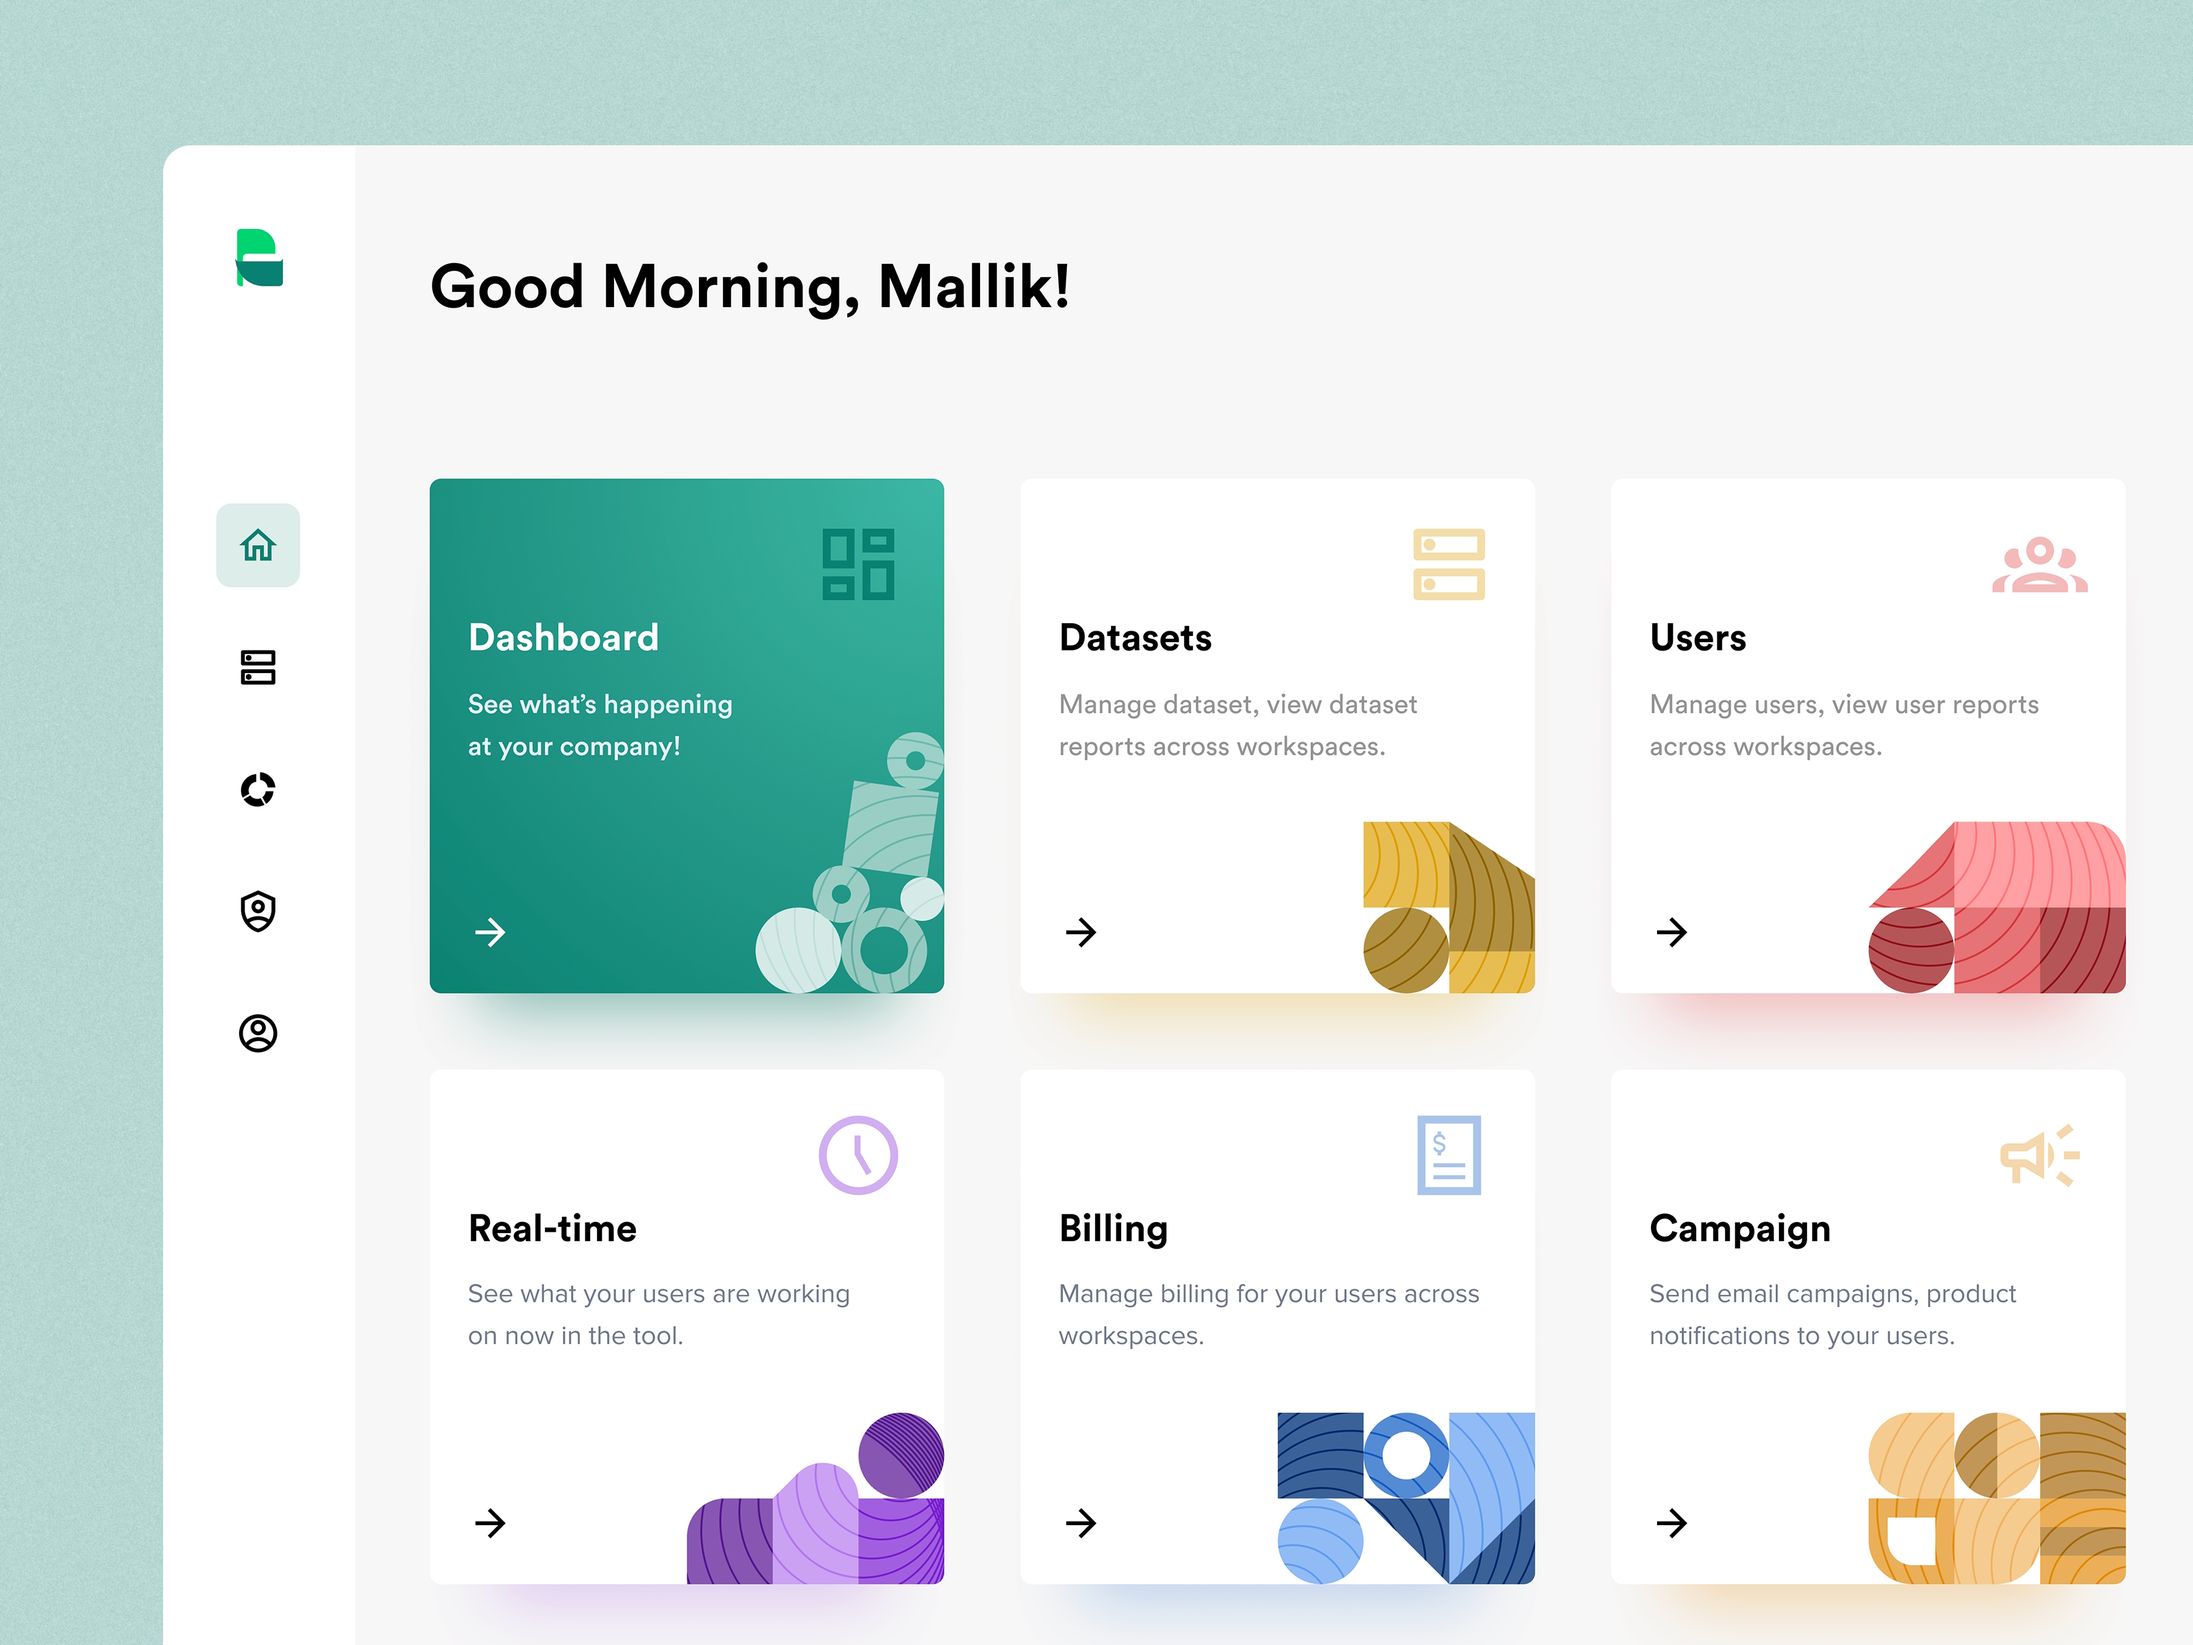
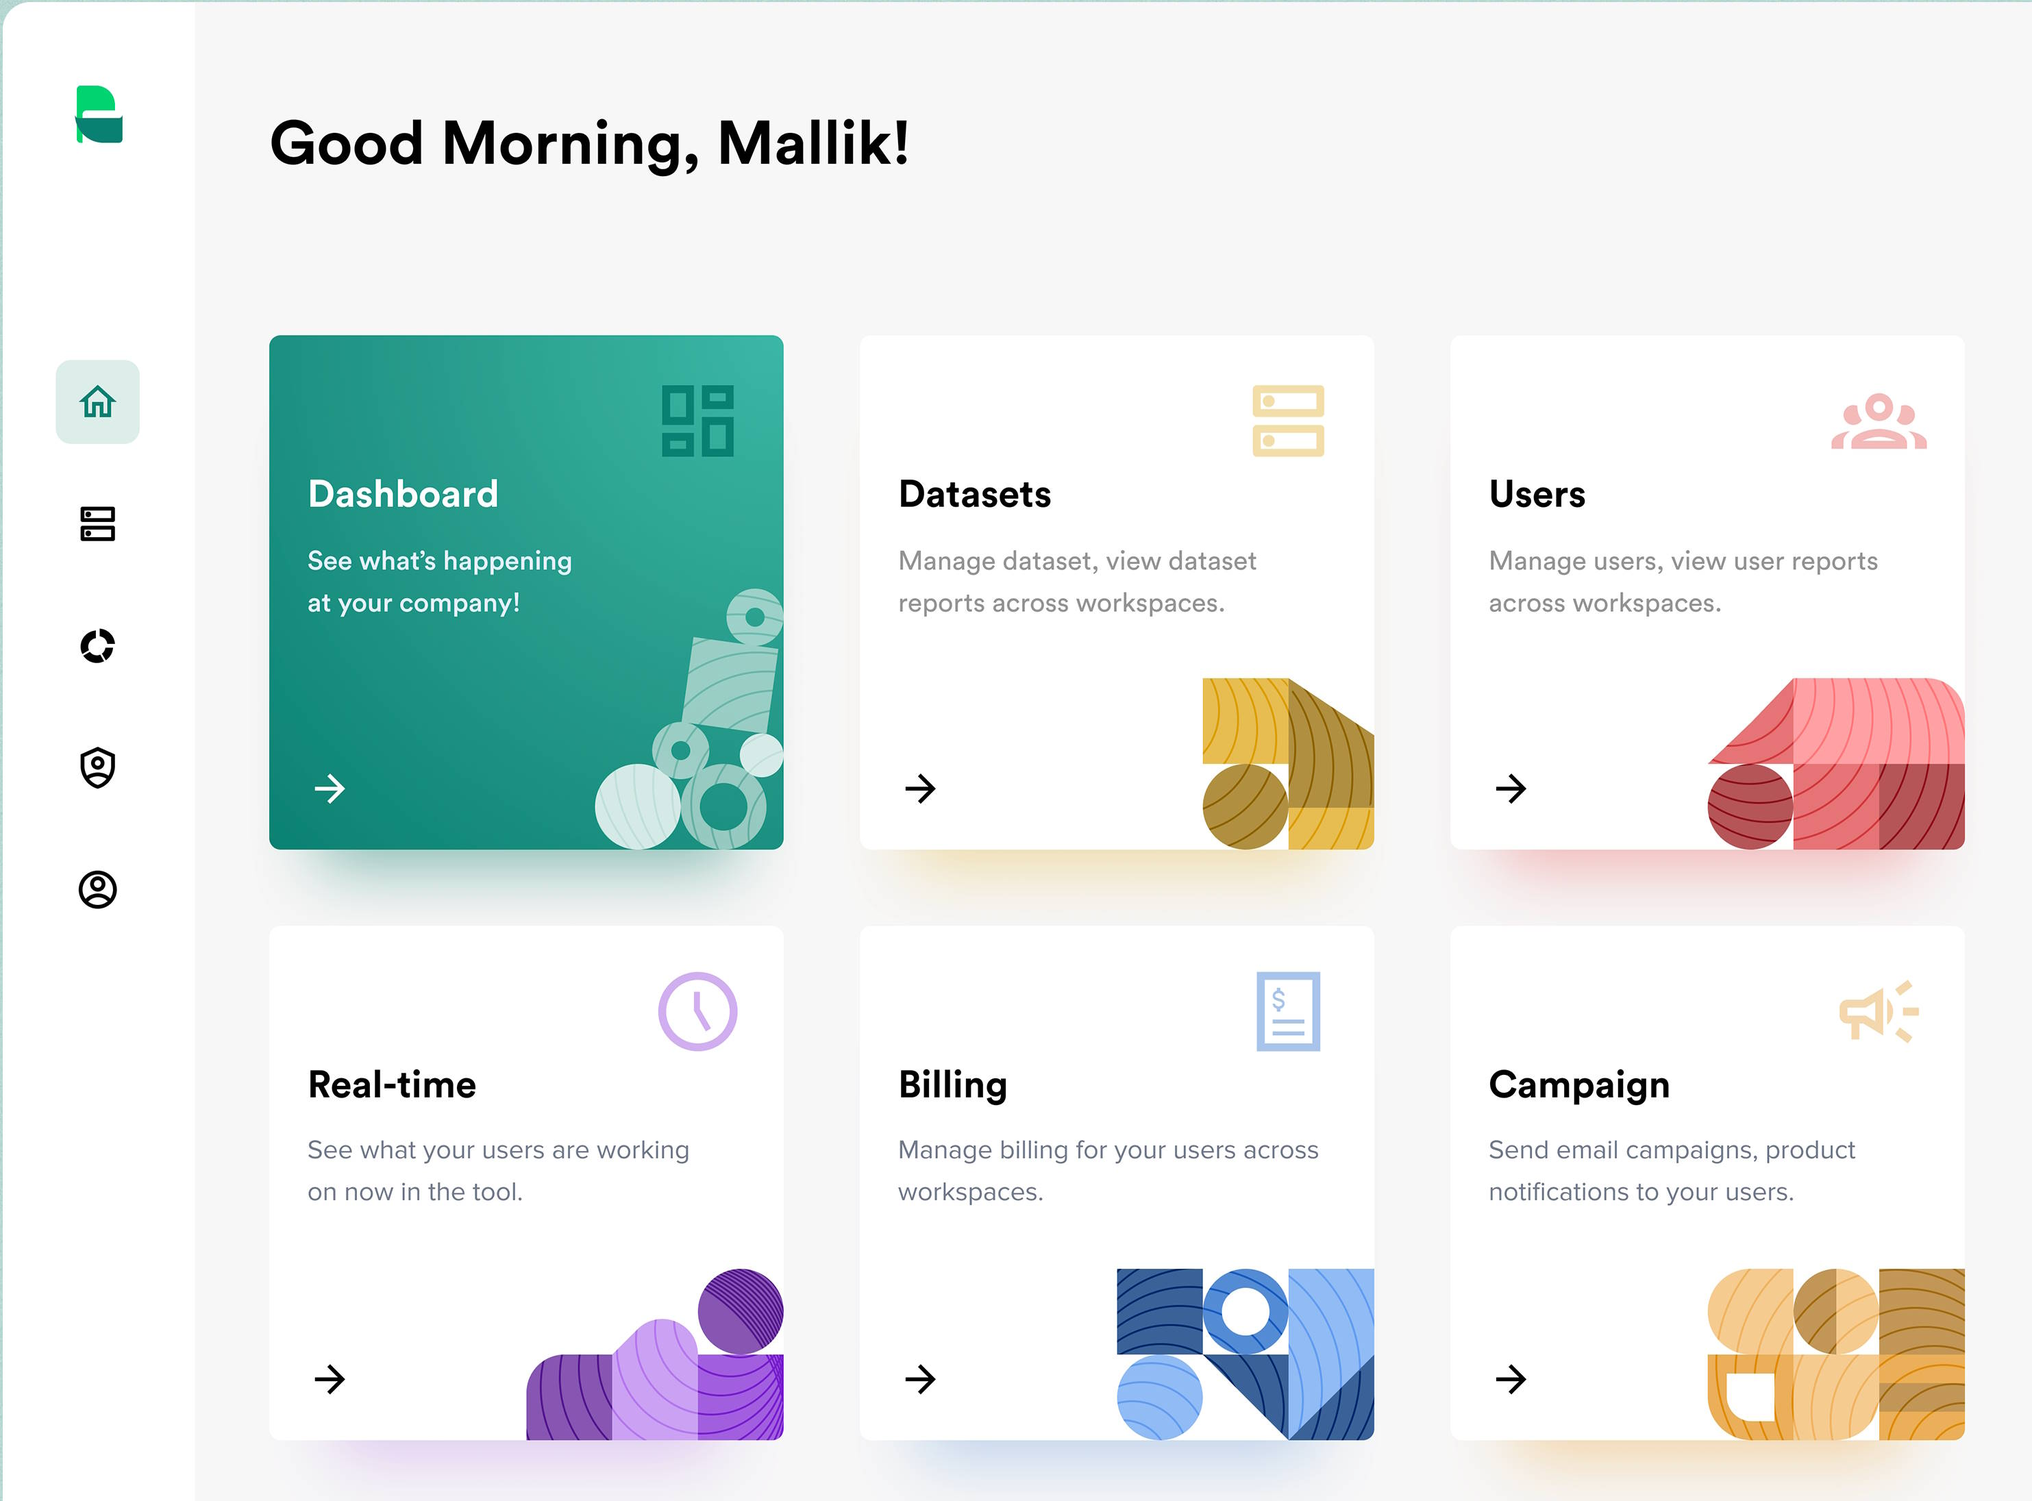
arrows

diff --git a/index.html b/index.html
@@ -14,11 +14,11 @@
       <img class="logo" src="./img/logo.png" alt="Logo" />
       <nav class="main-nav">
         <div class="navigation">
-          <a class="link-active" href="#"><img class="aside.icons" src="./img/home.webp" alt="Home"></a>
-          <a class="link" href="#"><img class="aside.icons" src="./img/list.jpg" alt="List"></a>
-          <a class="link" href="#"><img class="aside.icons" src="./img/circle.jpg" alt="Circle"></a>
-          <a class="link" href="#"><img class="aside.icons" src="./img/profile2.jpg" alt="Profile2"></a>
-          <a class="link" href="#"><img class="aside.icons" src="./img/profile.jpg" alt="Profile"></a>
+          <a class="link-active" href="#"><img class="aside-icons" src="./img/home.webp" alt="Home"></a>
+          <a class="link" href="#"><img class="aside-icons" src="./img/list.jpg" alt="List"></a>
+          <a class="link" href="#"><img class="aside-icons" src="./img/circle.jpg" alt="Circle"></a>
+          <a class="link" href="#"><img class="aside-icons" src="./img/profile2.jpg" alt="Profile2"></a>
+          <a class="link" href="#"><img class="aside-icons" src="./img/profile.jpg" alt="Profile"></a>
         </div>
       </nav>
     </aside>
@@ -31,7 +31,7 @@
           <p class="parag">
             Lorem ipsum dolor sit amet consectetur adipisicing elit.
           </p>
-          <a href="#">-></a>
+          <a href="#"><img class="arrow" src="./img/arrow.webp" alt=""></a>
         </div>
         <div class="datasets">
           <h2>Datasets</h2>
@@ -39,7 +39,7 @@
             Lorem ipsum dolor sit, amet consectetur adipisicing elit. Ipsa,
             repudiandae!
           </p>
-          <a href="#">-></a>
+          <a href="#"><img class="arrow" src="./img/arrow.webp" alt=""></a>
         </div>
         <div class="users">
           <h2>Users</h2>
@@ -47,7 +47,7 @@
             Lorem ipsum dolor sit amet consectetur, adipisicing elit. Minima,
             velit.
           </p>
-          <a href="#">-></a>
+          <a href="#"><img class="arrow" src="./img/arrow.webp" alt=""></a>
         </div>
         <div class="real-time">
           <h2>Real-time</h2>          
@@ -55,7 +55,7 @@
             Lorem ipsum dolor sit, amet consectetur adipisicing elit. Maiores,
             temporibus?
           </p>
-            <a href="#">-></a>          
+          <a href="#"><img class="arrow" src="./img/arrow.webp" alt=""></a>         
         </div>
         <div class="billing">
           <h2>Billing</h2>
@@ -63,7 +63,7 @@
             Lorem ipsum, dolor sit amet consectetur adipisicing elit.
             Consectetur, eius?
           </p>
-          <a href="#">-></a>
+          <a href="#"><img class="arrow" src="./img/arrow.webp" alt=""></a>
         </div>
         <div class="campaign">
           <h2>Campaign</h2>
@@ -71,7 +71,7 @@
             Lorem ipsum dolor sit amet consectetur adipisicing elit. Tempore,
             est!
           </p>
-          <a href="#">-></a>
+          <a href="#"><img class="arrow" src="./img/arrow.webp" alt=""></a>
         </div>
       </div>
     </main>

diff --git a/css/main.css b/css/main.css
@@ -5,28 +5,32 @@
 body {
     display: grid; 
     grid-template-columns: 140px 1fr; 
-    margin: 0;
+    margin-top: 0;
     min-height: 100vh;
     
 }
  
 main {
     background-color: whitesmoke;
-    display: inline-block;         
+            
           
 }
 
 header {
-    margin-top: 60px;
-    font-size: 40px;
+    margin-top: 40px;
+    font-size: 35px;
     font-weight: bold;
+    margin-left: 40px;
 }
 
 .panel {
     margin-top: 50px;
     display: grid;
     grid-template-columns: 1fr 1fr 1fr;   
-    gap: 50px;
+    gap: 40px;
+    margin-left: 40px;
+    margin-right: 40px;
+    
 
 }
 
@@ -34,7 +38,7 @@ header {
     background-color: #219686;
     border-radius: 10px;
     box-shadow: 0 50px 50px -40px #219686;
-    
+    color: white;
 
 }
 
@@ -79,3 +83,8 @@ header {
 
 }
 
+.arrow {
+    width: 15px;
+
+
+}

diff --git a/css/aside.css b/css/aside.css
@@ -5,9 +5,9 @@ aside {
 }
 
 .logo {
-    margin-left: 20px;
-    margin-top: 40px;
-    width: 40px;
+    margin-left: 35px;
+    margin-top: 30px;
+    width: 35px;
        
 }
 
@@ -16,7 +16,7 @@ aside {
     margin-left: 0px;
     margin-top: 60px;
     height: 5px;
-    gap: 40px;
+    gap: 30px;
     justify-content: center;
 
 }
@@ -32,4 +32,8 @@ aside {
     padding: 10px;
     border-radius: 10px;
     
+}
+
+.aside-icons {
+    width: 20px;
 }
